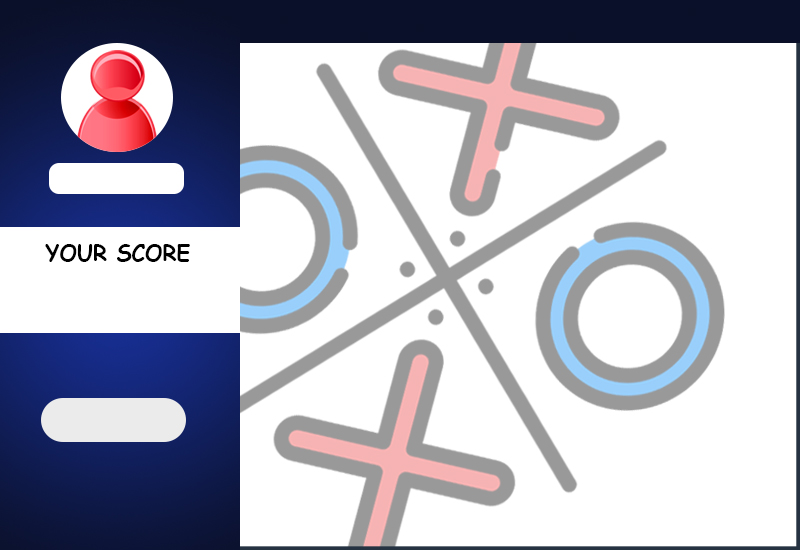
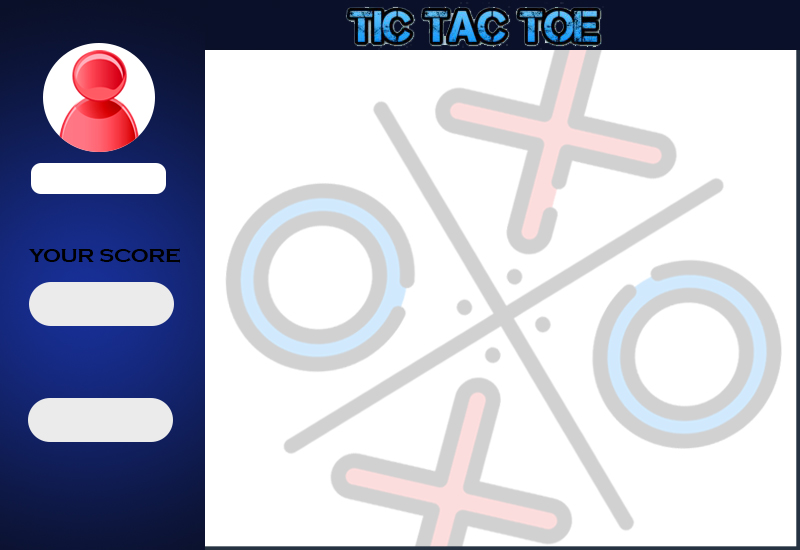
update GUI of single player and dashboard

diff --git a/Client/src/TicTacTo/css/gamegui.css b/Client/src/TicTacTo/css/gamegui.css
@@ -10,3 +10,12 @@
 
 }
 
+#AnchorPane1 {
+    -fx-background-image: url("../images/img3.png");
+    -fx-background-repeat: no-repeat no-repeat;
+    -fx-background-size: stretch;
+
+
+}
+
+

diff --git a/Client/src/tictactoewithai/AI.java b/Client/src/tictactoewithai/AI.java
@@ -31,7 +31,7 @@ public class AI {
                 buttons[i][j].setDisable(false);
                 buttons[i][j].setStyle("-fx-background-color: transparent;");
                 buttons[i][j].setText(" ");
-                buttons[i][j].setTextFill(Color.WHITE);
+                buttons[i][j].setTextFill(Color.RED);
                 board[i][j] = null;
             }
             }
@@ -42,7 +42,7 @@ public class AI {
     public void setButtonMove(Button btn,String move){
         btn.setFocusTraversable(false);
         btn.setStyle("-fx-background-color: transparent;");
-        btn.setTextFill(Color.RED);
+        btn.setTextFill(Color.YELLOW);
         btn.setText(move);
     }
      public void resetBoard(String[][] board){
